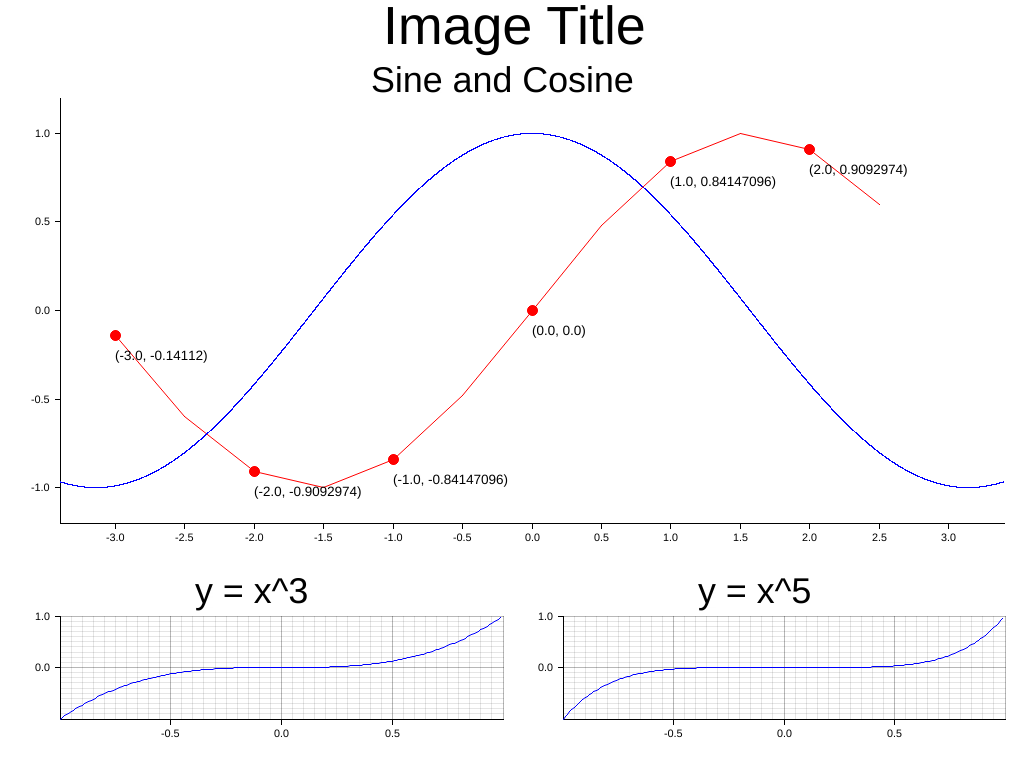
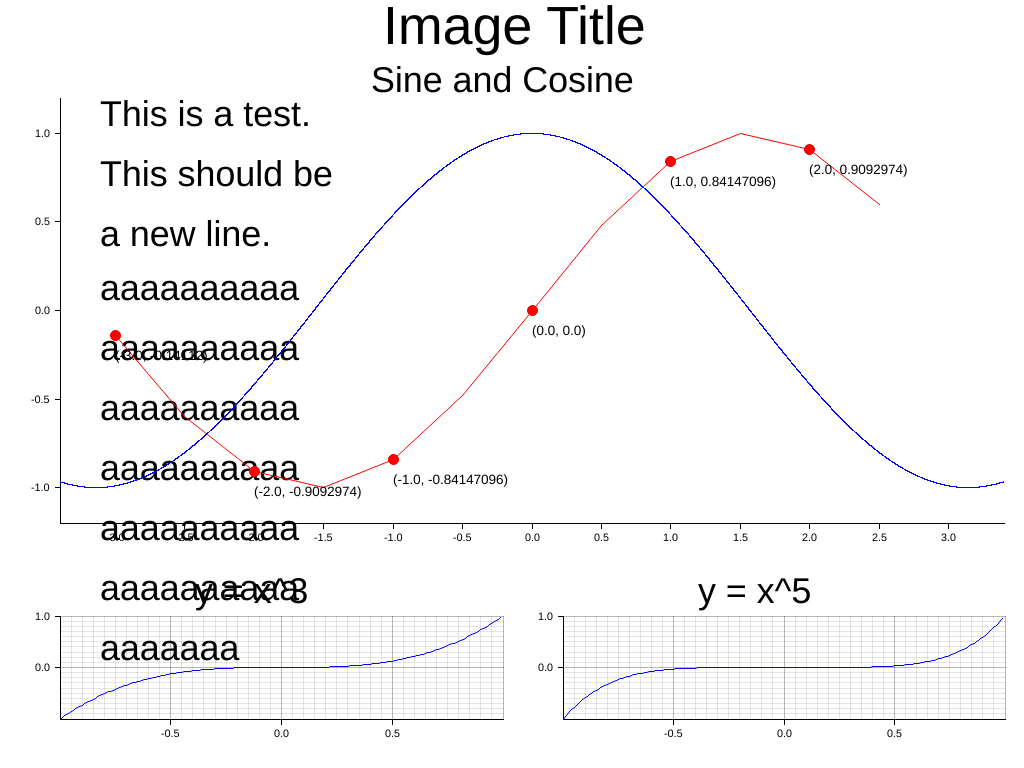
Multi-Line Text Support

diff --git a/src/element/text.rs b/src/element/text.rs
@@ -2,7 +2,7 @@ use std::borrow::Borrow;
 
 use super::{Drawable, PointCollection};
 use crate::drawing::backend::{BackendCoord, DrawingBackend, DrawingErrorKind};
-use crate::style::TextStyle;
+use crate::style::{FontDesc, TextStyle};
 
 /// A single line text element. This can be owned or borrowed string, dependeneds on
 /// `String` or `str` moved into.
@@ -83,7 +83,60 @@ impl<'a, Coord, T: Borrow<str>> MultiLineText<'a, Coord, T> {
         self.lines.push(line.into());
     }
 
-    // TODO: The layout iterator
+    fn layout_lines(&self, (x0, y0): BackendCoord) -> impl Iterator<Item = BackendCoord> {
+        let font_height = self.style.font.get_size();
+        let actual_line_height = font_height * self.line_height;
+        (0..self.lines.len() as u32).map(move |idx| {
+            let y = f64::from(y0) + f64::from(idx) * actual_line_height;
+            // TODO: Support text alignment as well, currently everything is left aligned
+            let x = f64::from(x0);
+            (x.round() as i32, y.round() as i32)
+        })
+    }
+}
+
+fn layout_multiline_text<'a, F: FnMut(&'a str)>(
+    text: &'a str,
+    max_width: u32,
+    font: &'a FontDesc<'a>,
+    mut func: F,
+) {
+    for line in text.lines() {
+        if max_width == 0 {
+            func(line);
+        } else {
+            let mut remaining = &line[0..];
+
+            while remaining.len() > 0 {
+                let mut width = 0;
+                let mut left = 0;
+                while left < remaining.len() {
+                    let char_width = {
+                        let ((x0, _), (x1, _)) = font
+                            .layout_box(&remaining[left..(left + 1)])
+                            .unwrap_or(((0, 0), (0, 0)));
+                        x1 - x0
+                    };
+
+                    width += char_width;
+
+                    if width > max_width as i32 {
+                        break;
+                    }
+                    left += 1;
+                }
+
+                if left == 0 {
+                    left += 1;
+                }
+
+                let cur_line = &remaining[..left];
+                remaining = &remaining[left..];
+
+                func(cur_line);
+            }
+        }
+    }
 }
 
 // TODO: Think about how to generalize this
@@ -104,43 +157,64 @@ impl<'a, Coord> MultiLineText<'a, Coord, &'a str> {
     ) -> Self {
         let text = text.into();
         let mut ret = MultiLineText::new(pos, style);
-        for line in text.split(|c| c == '\n') {
-            if max_width == 0 {
-                ret.push_line(line);
-            } else {
-                let mut remaining = &line[0..];
 
-                while remaining.len() > 0 {
-                    let mut width = 0;
-
-                    let mut left = 0;
-                    while left < remaining.len() {
-                        let ((x0, _), (x1, _)) = ret
-                            .style
-                            .font
-                            .layout_box(&remaining[left..(left + 1)])
-                            .unwrap_or(((0, 0), (0, 0)));
-                        let w = x1 - x0;
-                        width += w;
-                        if width > max_width as i32 {
-                            break;
-                        }
-                        left += 1;
-                    }
-
-                    if left == 0 {
-                        left = 1;
-                    }
-
-                    let part = &remaining[0..left];
-                    remaining = &remaining[left..];
-
-                    ret.push_line(part);
-                }
-            }
-        }
+        layout_multiline_text(text, max_width, ret.style.font, |l| ret.push_line(l));
         ret
     }
 }
 
-// TODO: Render the multi-line text
+impl<'a, Coord> MultiLineText<'a, Coord, String> {
+    /// Parse a multi-line text into an multi-line element.
+    ///
+    /// `text`: The text that is parsed
+    /// `pos`: The position of the text
+    /// `style`: The style for this text
+    /// `max_width`: The width of the multi-line text element, the line will break
+    /// into two lines if the line is wider than the max_width. If 0 is given, do not
+    /// do any line wrapping
+    pub fn from_string<S: Into<TextStyle<'a>>>(
+        text: String,
+        pos: Coord,
+        style: S,
+        max_width: u32,
+    ) -> Self {
+        let mut ret = MultiLineText::new(pos, style);
+
+        layout_multiline_text(text.as_str(), max_width, ret.style.font, |l| {
+            ret.push_line(l.to_string())
+        });
+        ret
+    }
+}
+
+impl<'b, 'a, Coord: 'a, T: Borrow<str> + 'a> PointCollection<'a, Coord>
+    for &'a MultiLineText<'b, Coord, T>
+{
+    type Borrow = &'a Coord;
+    type IntoIter = std::iter::Once<&'a Coord>;
+    fn point_iter(self) -> Self::IntoIter {
+        std::iter::once(&self.coord)
+    }
+}
+
+impl<'a, Coord: 'a, DB: DrawingBackend, T: Borrow<str>> Drawable<DB>
+    for MultiLineText<'a, Coord, T>
+{
+    fn draw<I: Iterator<Item = BackendCoord>>(
+        &self,
+        mut points: I,
+        backend: &mut DB,
+    ) -> Result<(), DrawingErrorKind<DB::ErrorType>> {
+        if let Some(a) = points.next() {
+            for (point, text) in self.layout_lines(a).zip(self.lines.iter()) {
+                backend.draw_text(
+                    text.borrow(),
+                    self.style.font,
+                    point,
+                    &Box::new(self.style.color),
+                )?;
+            }
+        }
+        Ok(())
+    }
+}

diff --git a/src/lib.rs b/src/lib.rs
@@ -375,8 +375,8 @@ pub mod prelude {
     };
 
     pub use crate::element::{
-        CandleStick, Circle, Cross, DynElement, EmptyElement, IntoDynElement, Path, Pixel,
-        Rectangle, Text,
+        CandleStick, Circle, Cross, DynElement, EmptyElement, IntoDynElement, MultiLineText, Path,
+        Pixel, Rectangle, Text,
     };
 
     #[allow(type_alias_bounds)]
